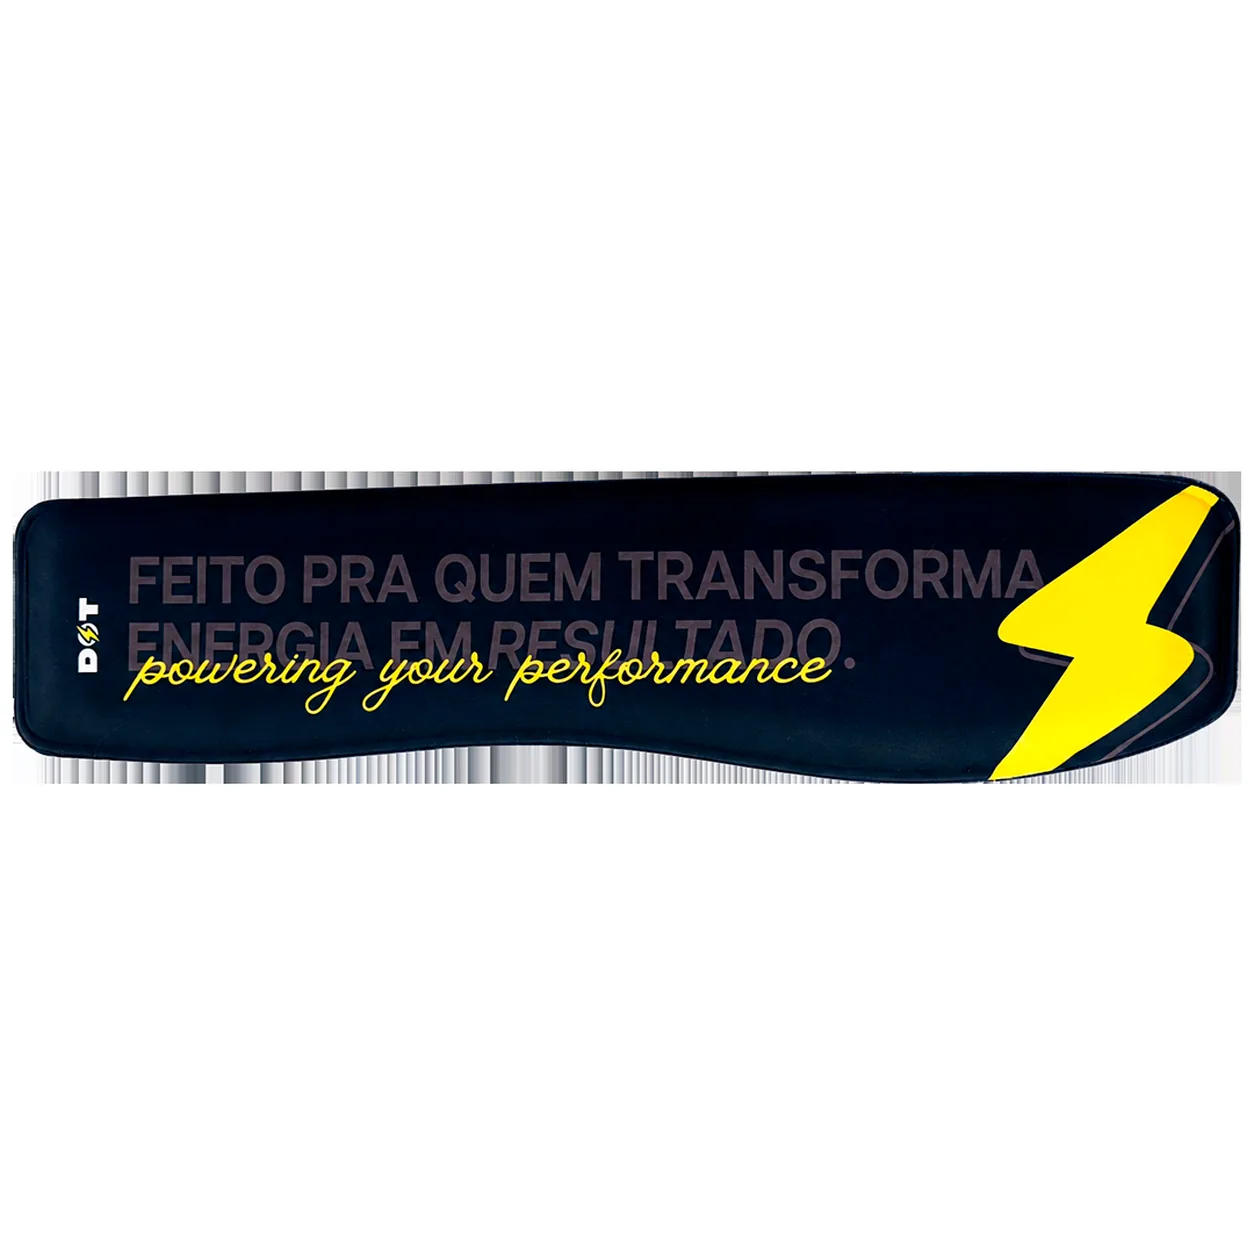
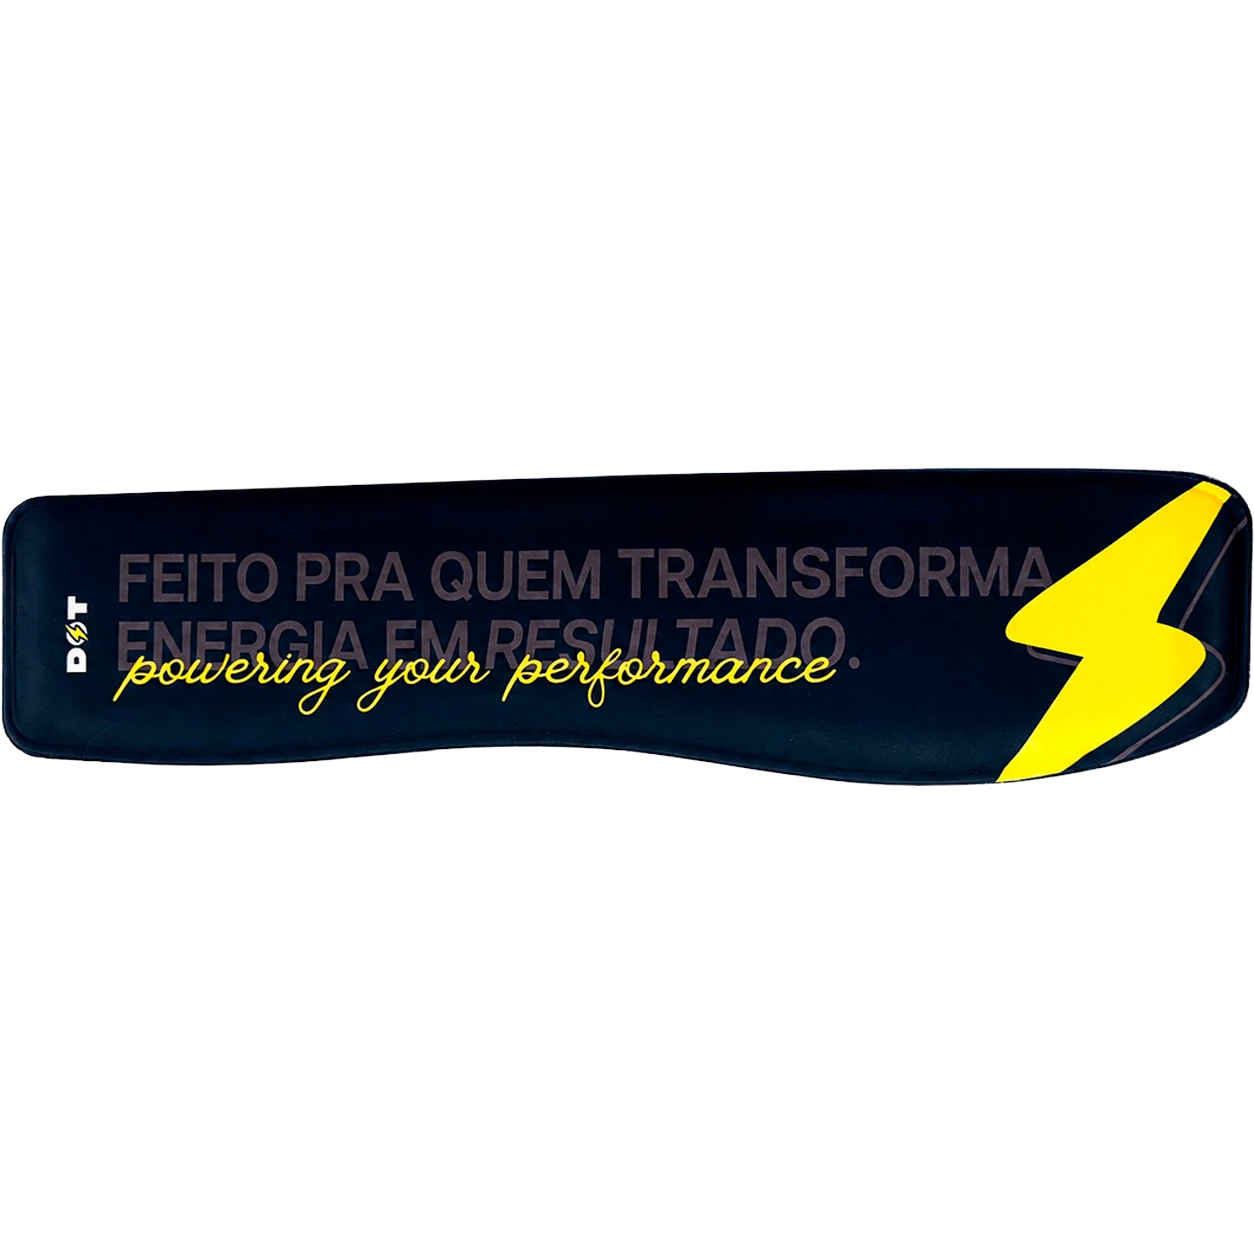
fix: imagem do apoio de teclado sem fundo branco, e card de frete no kit
A webp do apoio tinha sido gerada com convert("RGB"), o que achatou a
transparencia num branco solido -- daí o retangulo branco sobre o creme do
card, diferente do mousepad, que e RGBA. Refeita preservando o alfa e
recortada no conteudo; o slide da galeria tambem. As dimensoes no HTML
acompanham (620x158).

Entra tambem um quarto card, Frete Gratis, na secao "O que vem junto no seu
kit" -- no grid e no carrossel. O grid de desktop passa de 3 para 4 colunas.

Changed region(s): [[0.0, 0.3732, 1.0, 0.6531], [0.7153, 0.622, 0.7775, 0.6531]]

diff --git a/index.html b/index.html
@@ -179,7 +179,7 @@
                 <span class="free">Grátis</span>
               </li>
               <li>
-                <img class="gift-list__img" src="assets/brinde-apoio-teclado.webp" alt="Apoio de teclado DOT" width="1080" height="1080" loading="lazy">
+                <img class="gift-list__img" src="assets/brinde-apoio-teclado.webp" alt="Apoio de teclado DOT" width="620" height="158" loading="lazy">
                 <span class="gift-list__name">Apoio de Teclado DOT</span>
                 <span class="gift-list__was">R$ 45</span>
                 <span class="free">Grátis</span>
@@ -288,6 +288,14 @@
           <p class="gift-card__text">Apoio acolchoado que alinha o pulso e tira a tensão de quem passa o dia inteiro no teclado.</p>
         </div>
       </article>
+      <article class="gift-card">
+        <div class="gift-card__media media-frame"><img src="assets/brinde-frete-gratis.webp" alt="Frete grátis DOT" loading="lazy"></div>
+        <div class="gift-card__body">
+          <p class="gift-card__title">Frete Grátis</p>
+          <p class="gift-card__lead">Chega na sua porta sem custo nenhum.</p>
+          <p class="gift-card__text">Enviamos para todo o Brasil por nossa conta, sem valor mínimo e sem letra miúda.</p>
+        </div>
+      </article>
     </div>
 
     <div class="gifts__slider bleed slider-clip">
@@ -327,6 +335,16 @@
                 <p class="gift-card__title">Apoio de Teclado DOT</p>
                 <p class="gift-card__lead">Pulso apoiado, digitação sem peso.</p>
                 <p class="gift-card__text">Apoio acolchoado que alinha o pulso e tira a tensão de quem passa o dia inteiro no teclado.</p>
+              </div>
+            </article>
+          </div>
+          <div class="swiper-slide">
+            <article class="gift-card">
+              <div class="gift-card__media media-frame"><img src="assets/brinde-frete-gratis.webp" alt="Frete grátis DOT" loading="lazy"></div>
+              <div class="gift-card__body">
+                <p class="gift-card__title">Frete Grátis</p>
+                <p class="gift-card__lead">Chega na sua porta sem custo nenhum.</p>
+                <p class="gift-card__text">Enviamos para todo o Brasil por nossa conta, sem valor mínimo e sem letra miúda.</p>
               </div>
             </article>
           </div>

diff --git a/v2.css b/v2.css
@@ -932,7 +932,7 @@ button { font: inherit; color: inherit; }
 
 @media (min-width: 992px) {
   .gifts__head   { margin-bottom: 28px; }
-  .gifts__grid   { display: grid; grid-template-columns: repeat(3, 1fr); gap: 16px; }
+  .gifts__grid   { display: grid; grid-template-columns: repeat(4, 1fr); gap: 16px; }
   .gifts__slider { display: none; }
   .gift-card__title { font-size: 24px; }
   .gift-card__lead  { font-size: 17px; }
